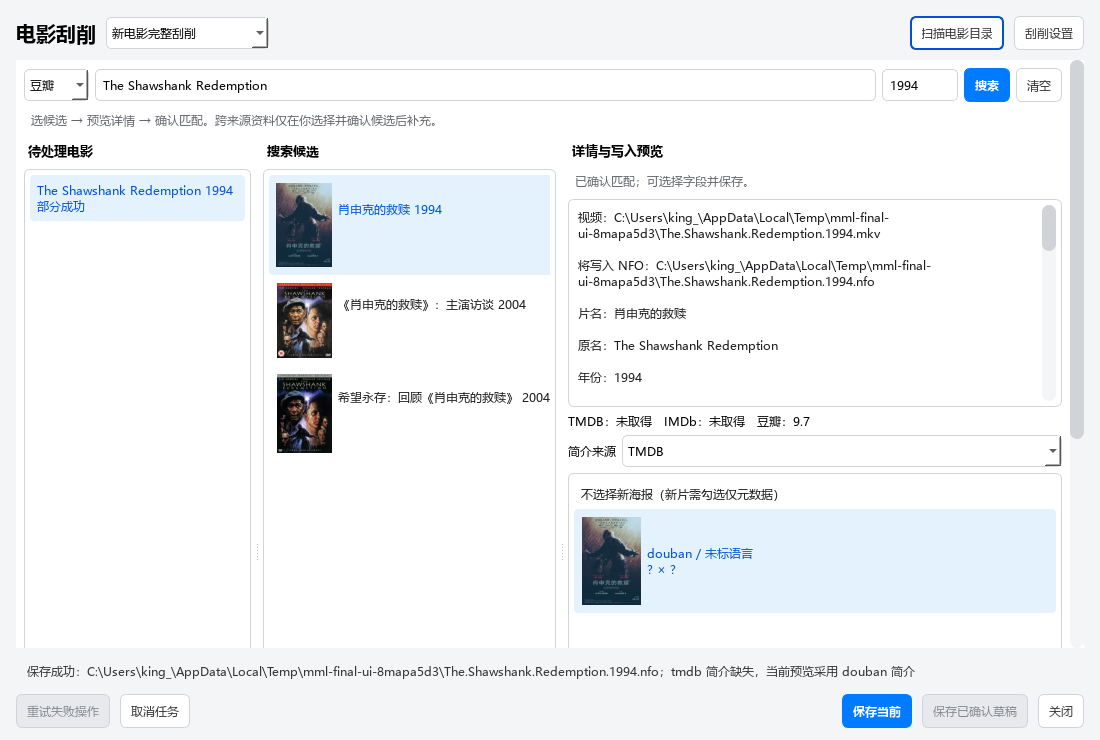
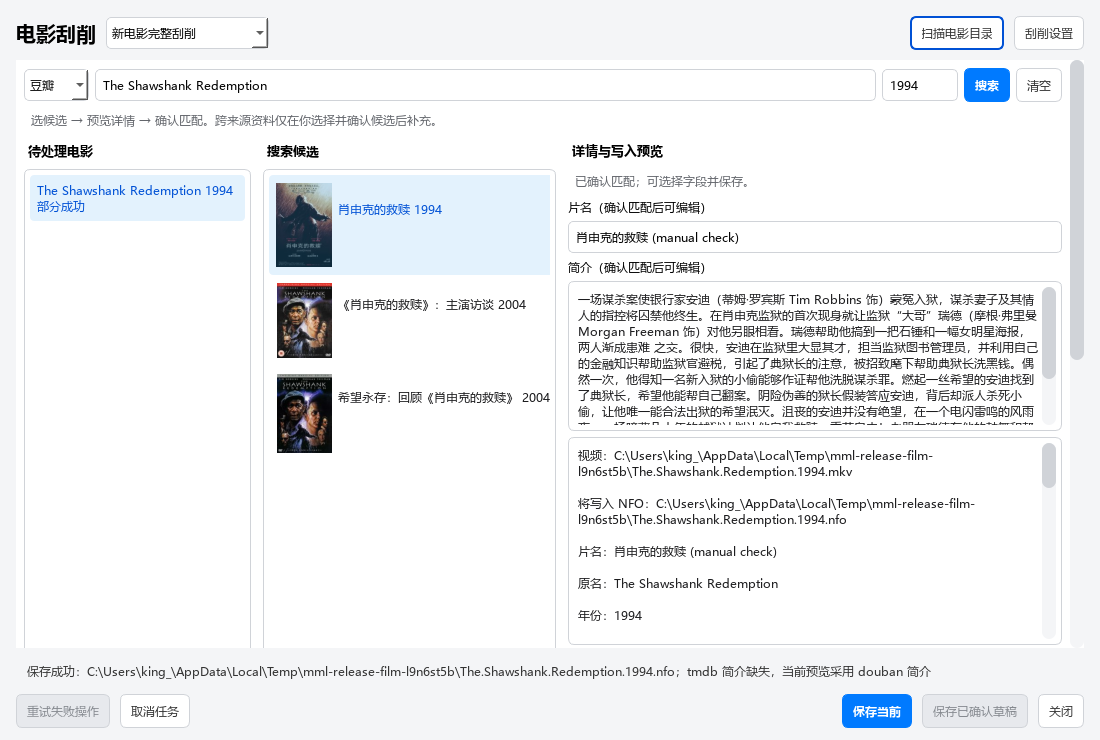
docs: 完成桌面刮削验收与测试版交付说明

Changed region(s): [[0.4945, 0.2486, 0.9891, 0.8392], [0.3091, 0.9014, 0.8345, 0.9324], [0.9273, 0.2797, 0.9582, 0.3419]]

diff --git a/docs/打包说明.md b/docs/打包说明.md
@@ -20,21 +20,13 @@ scripts\\build.bat
 
 ## 3. 运行时数据
 
-应用运行时数据位于 `data` 目录：
-
-- `data/config.json`
-- `data/movie_cache.json`
-- `data/watch_history.json`
-- `data/favorites.json`
-- `data/failed_movies.json`
-- `data/scrape_config.json`
-- `data/douban_cookies.pkl`
+源码版默认使用项目 `data/`；安装版默认使用 `%APPDATA%/LocalMovieWall/data/`，`MML_DATA_DIR` 可覆盖。运行数据包括配置、电影缓存、观看/收藏记录及刮削凭据；不应将个人运行数据打入分发包。
 
 ## 4. 分发建议
 
 1. 分发整个 `dist` 目录，不要只拷贝 exe。
-2. 若升级版本，可迁移旧版 `data` 目录到新版。
-3. 保持 `logo`、`styles` 等资源目录与程序同级。
+2. 升级时保留 `%APPDATA%/LocalMovieWall/data/`；迁移前先备份运行数据。
+3. 保持 PyInstaller 生成的 `_internal` 资源目录结构，不单独移动 EXE。
 
 ## 5. 常见问题
 
@@ -45,4 +37,13 @@ scripts\\build.bat
    - 建议在可信环境签名并加入白名单。
 
 3. 资源缺失
-   - 检查打包配置是否包含 `styles`、`logo`、`data`。
+   - 检查打包配置是否包含 `styles`、`logo`；个人 `data` 不加入打包配置。
+
+
+## 6. 桌面内置刮削依赖
+
+使用 Windows Python 3.11，先安装根目录 `requirements.txt`，其中 Pillow 用于在纯 Python 领域层校验并转换海报。新增刮削模块可由 PyInstaller 静态导入收集；开发验收已核对提供者、服务、Qt 工作台及 Pillow 均在归档中，QSS 资源也已复制。
+
+豆瓣通过系统 Node.js >=22.13 和 npx 调用固定版本 `@marvae24/douban-cli@0.7.0`，Node 不包含在 EXE 分发包中。运行测试版或安装版前，需在目标 Windows 机器上安装 Node；数据源设置中的连接测试可以检查当前环境。
+
+安装版运行数据默认在 `%APPDATA%/LocalMovieWall/data/`，不会从只读安装目录写入；`MML_DATA_DIR` 可覆盖。源码版仍默认项目 `data/`。不要将真实配置、凭据、观看记录或媒体库文件打入分发包。

diff --git a/docs/刮削功能说明.md b/docs/刮削功能说明.md
@@ -30,7 +30,7 @@
 2. 选择 TMDB 或豆瓣搜索；也可输入对应 ID / 电影链接。TMDB 搜索支持通过 IMDb ID / 链接定位。
 3. 点击候选预览标题、年份、简介和外部 ID，点击「确认匹配」才形成可保存草稿。重名、翻拍和续集需要人工核对。
 4. 如需补充另一个来源，切换来源搜索，并明确确认对应候选；不会自动合并另一站的同名电影。简介可在已取得的来源间切换。
-5. 选择海报、核对要写入的字段。三站评分和真实评分人数分别保存；暂无评分不会写成 0。
+5. 选择海报、核对要写入的字段。确认后可在工作台编辑片名和简介，修改保存在当前电影草稿中；切换电影不会丢失本窗口的编辑。三站评分和真实评分人数分别保存；暂无评分不会写成 0。
 6. 保存当前电影，或批量保存已确认草稿。没有海报时，需明确选择「仅保存元数据」。
 
 新片在视频旁生成 `<视频名>.nfo`、`<视频名>-poster.jpg`，完成后自动加入电影墙。不同电影不共享新生成的海报文件；NFO 记录明确的本地图片关联。切换电影会保留本窗口已确认草稿；关闭窗口不保留未保存草稿。

diff --git a/docs/superpowers/specs/2026-11-14-desktop-native-movie-scraping-design.md b/docs/superpowers/specs/2026-11-14-desktop-native-movie-scraping-design.md
@@ -1,6 +1,6 @@
 # 桌面版内置电影刮削设计
 
-日期：2026-11-14。状态：用户已确认设计并授权开始开发，功能已实现，正在最终审阅与验收。
+日期：2026-11-14。状态：用户已确认设计并授权开始开发，桌面功能已实现并通过最终代码审阅与可用环境验收；TMDB/OMDb 真实凭据联网待用户配置。
 
 ## 1. 目标与已确认范围
 
